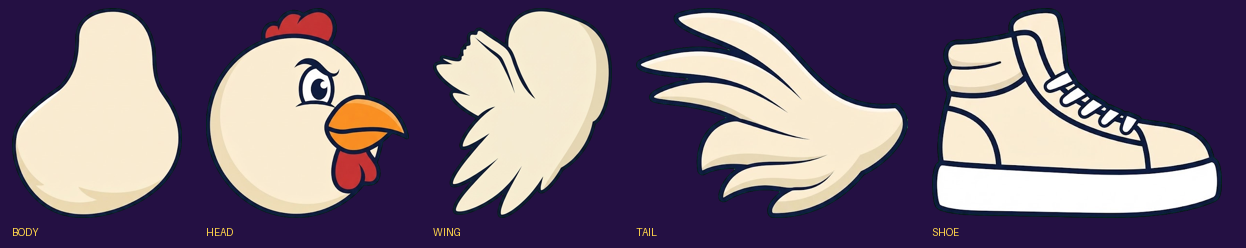
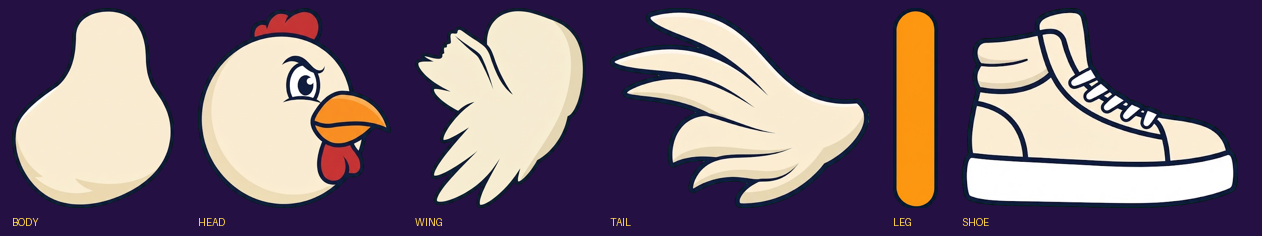
Add the missing leg part
Body, head, wing, tail and shoe were painted parts but the legs were still coded
orange capsules, so they did not match the rest of the character.

The leg is one straight tube generated from the reference and reused for both
bones, stretched to length by drawBone - so a future pair of legs is one image
rather than four. Capsule drawing stays as the fallback when the part is absent.

Claude-Session: https://claude.ai/code/session_01GPMrTdwpCZtjDF6U8tWZ25

diff --git a/index.html b/index.html
@@ -664,6 +664,19 @@ function capsule(x1,y1,x2,y2,w,col){
   ctx.strokeStyle=CKC.edge; ctx.lineWidth=w+8; ctx.stroke();
   ctx.strokeStyle=col;     ctx.lineWidth=w;   ctx.stroke();
 }
+function drawBone(x1,y1,x2,y2,w,col,far){
+  if(!partReady('leg')) return capsule(x1,y1,x2,y2,w,col);
+  const q=PARTS['leg'];
+  const dx=x2-x1, dy=y2-y1, len=Math.hypot(dx,dy)||1;
+  const ang=Math.atan2(dx,dy);                    // 0 = straight down
+  const iw=q.w*(w/11), ih=iw*(q.img.naturalHeight/q.img.naturalWidth);
+  ctx.save();
+  ctx.translate(x1,y1); ctx.rotate(-ang);         // same convention fix as the wing
+  ctx.scale(1, len/ih*1.10);                      // stretch the tube to the bone length
+  if(far) ctx.globalAlpha=0.9;
+  ctx.drawImage(q.img, -iw*q.ax, -ih*0.06, iw, ih);
+  ctx.restore();
+}
 function drawWingPart(px, py, ang, tip, open, col, far){
   ctx.save(); ctx.translate(px, py);
   if(partReady('wing')){
@@ -806,6 +819,7 @@ loadPart('head','art/part-head.png', {w:74,  ax:0.42, ay:0.52});
 loadPart('wing','art/part-wing.png', {w:90,  ax:0.78, ay:0.12, rot:-0.65});
 loadPart('tail','art/part-tail.png', {w:70,  ax:0.95, ay:0.45});
 loadPart('shoe','art/part-shoe.png', {w:52,  ax:0.32, ay:0.22});
+loadPart('leg', 'art/part-leg.png',  {w:17,  ax:0.50, ay:0.00});
 
 /* ---- the head, drawn in the same language as the body ---- */
 function hatSnapback(R){
@@ -932,8 +946,8 @@ function drawChicken(x, y, p){
   ctx.scale(p.sx, p.sy);
 
   // far leg
-  capsule(CK.hipX,CK.hipY, CK.hipX+p.kFx,CK.hipY+p.kFy, 9, CKC.legDark);
-  capsule(CK.hipX+p.kFx,CK.hipY+p.kFy, CK.hipX+p.fFx,CK.hipY+p.fFy, 7, CKC.legDark);
+  drawBone(CK.hipX,CK.hipY, CK.hipX+p.kFx,CK.hipY+p.kFy, 9, CKC.legDark, true);
+  drawBone(CK.hipX+p.kFx,CK.hipY+p.kFy, CK.hipX+p.fFx,CK.hipY+p.fFy, 8, CKC.legDark, true);
   drawShoePart(CK.hipX+p.kFx,CK.hipY+p.kFy, CK.hipX+p.fFx,CK.hipY+p.fFy, CKC.shoeDark, true);
 
   // far wing
@@ -1000,8 +1014,8 @@ function drawChicken(x, y, p){
   drawWingPart(CK.wingX, CK.wingY, p.wingN, p.tipN, p.wingOpen, CKC.wing, false);
 
   // near leg
-  capsule(CK.hipX,CK.hipY, CK.hipX+p.kNx,CK.hipY+p.kNy, 11, CKC.leg);
-  capsule(CK.hipX+p.kNx,CK.hipY+p.kNy, CK.hipX+p.fNx,CK.hipY+p.fNy, 9, CKC.leg);
+  drawBone(CK.hipX,CK.hipY, CK.hipX+p.kNx,CK.hipY+p.kNy, 11, CKC.leg, false);
+  drawBone(CK.hipX+p.kNx,CK.hipY+p.kNy, CK.hipX+p.fNx,CK.hipY+p.fNy, 10, CKC.leg, false);
   drawShoePart(CK.hipX+p.kNx,CK.hipY+p.kNy, CK.hipX+p.fNx,CK.hipY+p.fNy, CKC.shoe, false);
 
   if(game.rig){                                   // pivot overlay for aligning parts

diff --git a/characters.html b/characters.html
@@ -75,12 +75,12 @@
   <div class="card tight"><img src="frames/sheet-states.png" alt="Eight animation states: idle, peck, strut, glide, land, hit, dazed, celebrate"></div>
 
   <h2>The parts he is built from</h2>
-  <p class="count">5 PIECES · GENERATED ONCE</p>
-  <p class="note">Every frame above is these five painted pieces, hung on the animation rig and moved
+  <p class="count">6 PIECES · GENERATED ONCE</p>
+  <p class="note">Every frame above is these six painted pieces, hung on the animation rig and moved
     by it. That is why the frames finally look like the reference: <b>they are the reference art</b>,
     not a code imitation of it. Generating each piece once also means <b>no drift</b> — the character
     cannot wobble between frames the way generated sprite sheets do.</p>
-  <div class="card"><img src="frames/sheet-parts.png" alt="The five painted parts: body, head, wing, tail, shoe"></div>
+  <div class="card"><img src="frames/sheet-parts.png" alt="The six painted parts: body, head, wing, tail, leg, shoe"></div>
 
   <h2>Design reference</h2>
   <p class="note">The look these frames are built toward — designs 1 and 2 fused: backwards cap,

diff --git a/_CONTINUE-HERE.md b/_CONTINUE-HERE.md
@@ -19,7 +19,7 @@ cosmetic layers.** There are no per-outfit animations and there never should be.
 
 ### Parts (the important bit)
 
-`art/part-{body,head,wing,tail,shoe}.png` are cut from the Gemini reference art
+`art/part-{body,head,wing,tail,leg,shoe}.png` are cut from the Gemini reference art
 and hung on the rig by `loadPart` / `drawPart`. The rig moves the pieces; it does
 not draw the character. This is why he looks like the reference — he *is* the
 reference art.
@@ -35,6 +35,8 @@ Two traps that already bit:
   Get this backwards and "wings up" draws wings down.
 - Head cosmetics sit on the *painted* skull, not the pivot: `(-2,-8)` for the hat
   slot and `(2,-8)` for the face slot, both measured off `part-head.png`.
+- The leg is ONE straight tube part reused for both bones, stretched to length by
+  `drawBone` — so a new pair of legs is one image, not four.
 
 **Every part is optional.** If an image is missing, the fully procedural chicken
 draws instead (`partReady` guards every call), so the character can never vanish.
